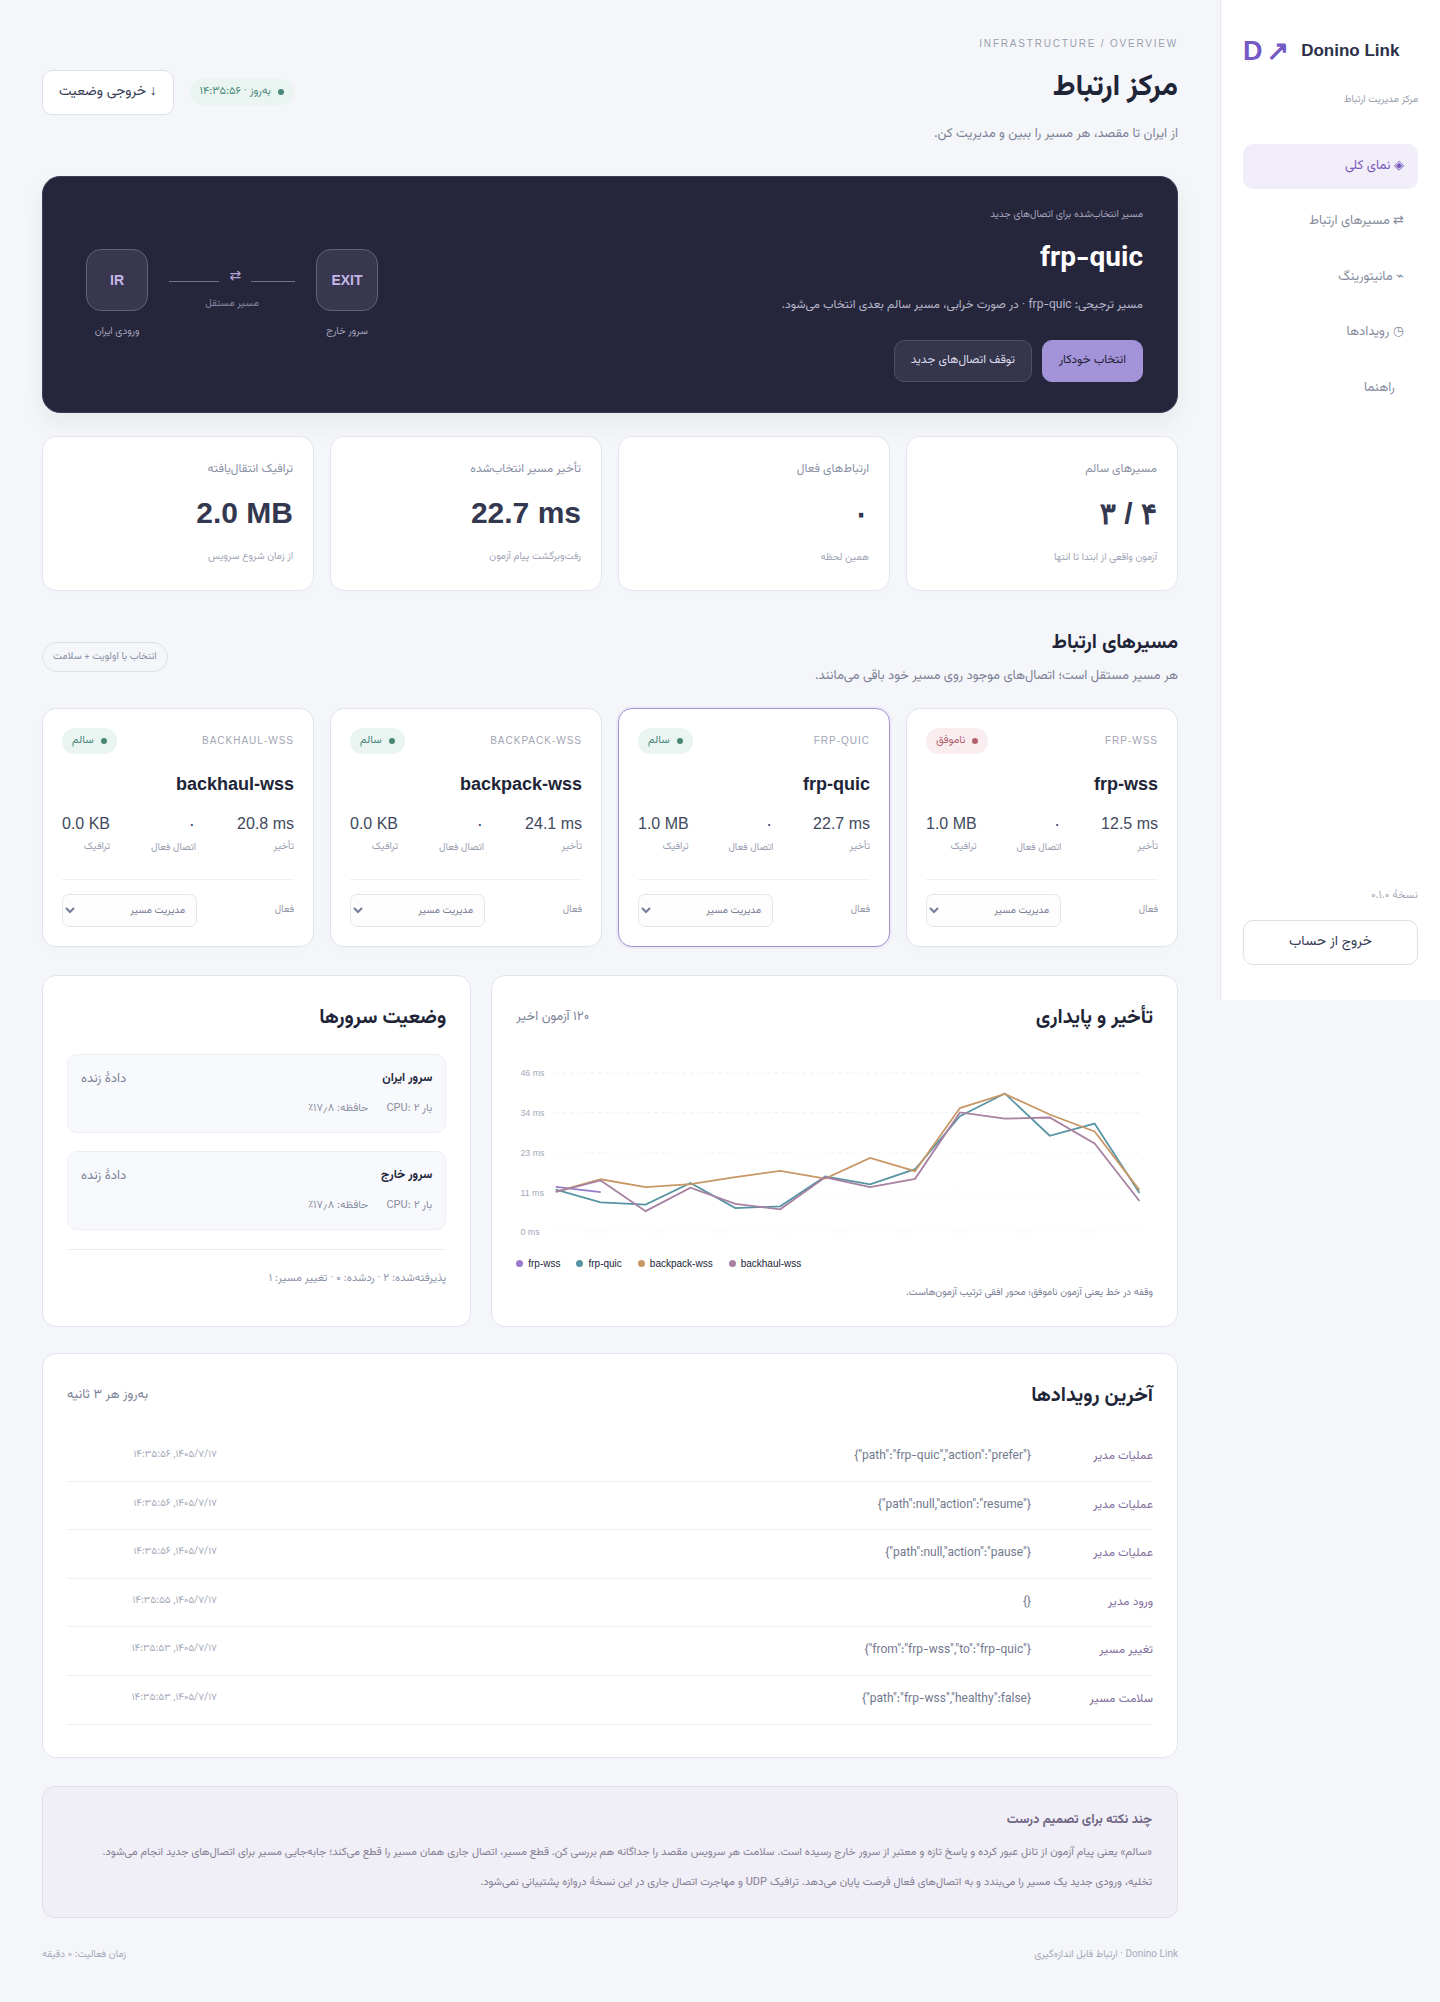
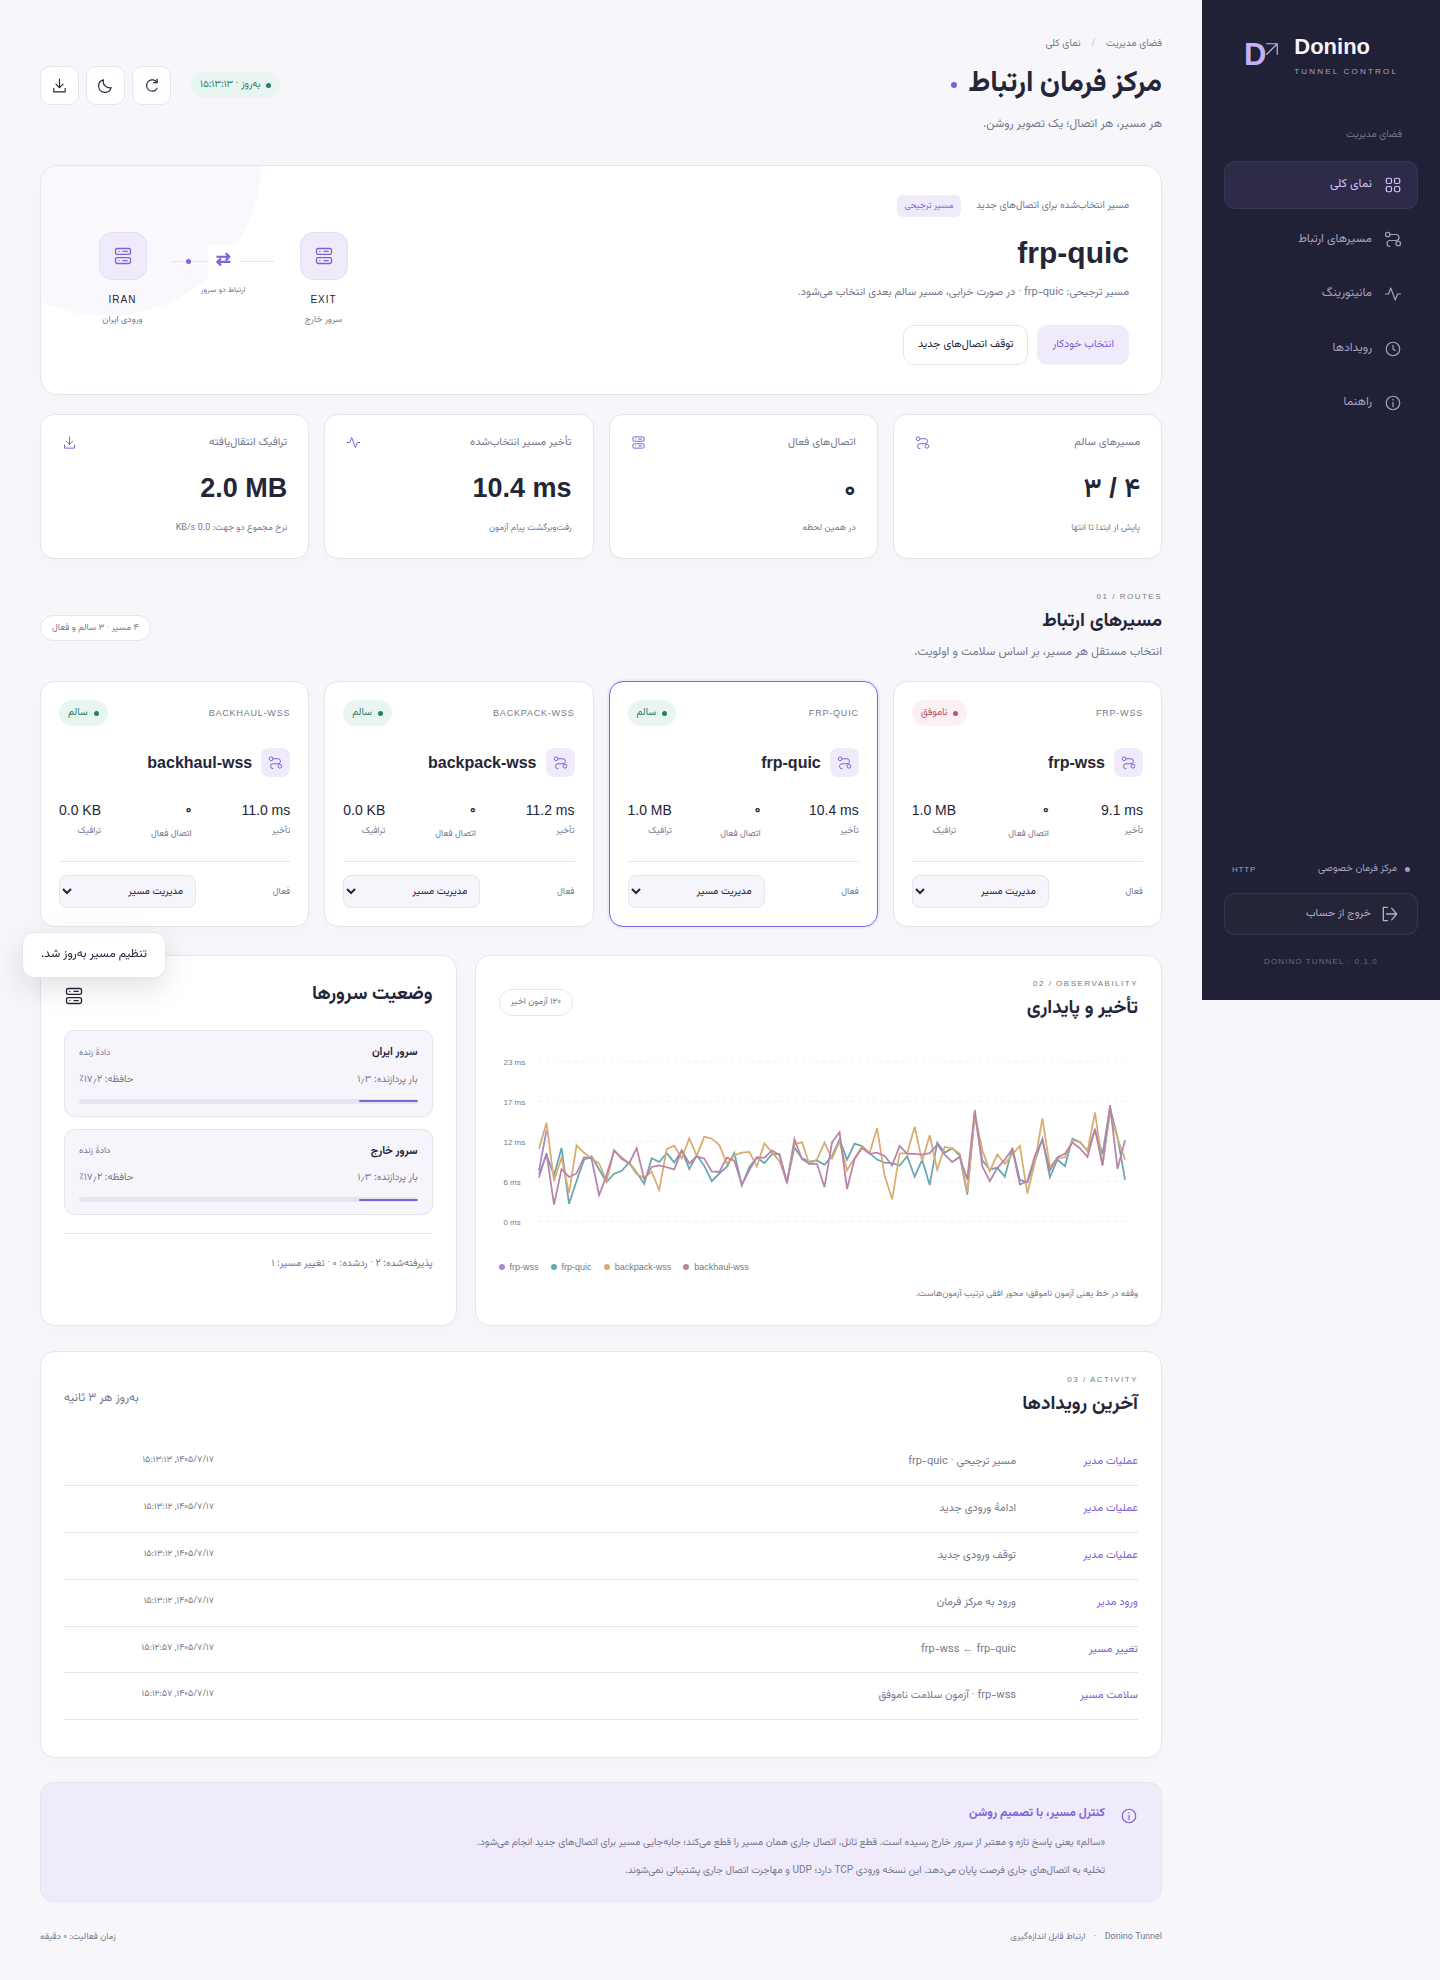
Record verified modern panel screenshots and roll back HTTP activation on failed readiness

diff --git a/docs/validation.md b/docs/validation.md
@@ -4,7 +4,7 @@
 
 ## آزمون واحد و امنیت
 
-۳۲ تست شامل اعتبارسنجی endpoint و تنظیمات، امضای تازهٔ probe، رد listener جعلی، hysteresis، fallback قبل از مصرف داده، حفظ half-close، drain، حالت پایدار مدیر، ورود و CSRF و Origin و خروج، rate limit، عدم افشای راز، metrics، قوانین raw scoped، SSH injection، جداسازی کلیدهای node، تولید و تمدید گواهی/pin، پورت 443 مستقل روی دو node، مرز frame و لایهٔ مشترک انتقال است. ماتریس CI با Python 3.11، 3.12 و 3.13 اجرا میشود.
+۳۶ تست شامل اعتبارسنجی endpoint و تنظیمات، امضای تازهٔ probe، رد listener جعلی، hysteresis، fallback قبل از مصرف داده، حفظ half-close، drain، حالت پایدار مدیر، ورود و CSRF و Origin و خروج، rate limit، عدم افشای راز، metrics، قوانین raw scoped، SSH injection، جداسازی کلیدهای node، تولید و تمدید گواهی/pin، پورت 443 مستقل روی دو node، مرز frame، لایهٔ مشترک انتقال، انتخاب صریح HTTP عمومی، رد برخورد پورت و حفظ دسترسی فایل تنظیمات است. ماتریس CI با Python 3.11، 3.12 و 3.13 اجرا میشود.
 
 ## موتورهای واقعی
 
@@ -22,7 +22,7 @@ Paqet فقط به لحاظ ساخت config، cipher موجود در source و ق
 
 ## پنل واقعی
 
-Playwright روی پنلِ متصل به چهار موتور واقعی تست ورود، توقف/ادامه، prefer و خروج موبایل را انجام میدهد. viewport دسکتاپ 1440×1000 و موبایل 390×844؛ خطای JavaScript و overflow افقی بررسی میشود. تصاویر [دسکتاپ](evidence/panel-desktop.png) و [موبایل](evidence/panel-mobile.png) از fixture محلی روی runner هستند، نه سرورهای واقعی ایران و خارج. تصویر بعد از قطع عمدی مسیر WSS گرفته شد؛ قرمز بودن آن مسیر انتظار آزمون است. تصاویر بازبینی بصری شدند و نسخهٔ اولیهٔ پنل خوانا و بدون overflow بود.
+Playwright روی پنلِ متصل به چهار موتور واقعی تست ورود، توقف/ادامه، prefer، بهروزرسانی دستی، ماندگاری تم روشن/تیره بعد از reload و خروج موبایل را انجام میدهد. viewport دسکتاپ 1440×1000 و موبایل 390×844؛ خطای JavaScript و overflow افقی بررسی میشود. تصاویر [دسکتاپ](evidence/panel-desktop.png) و [موبایل](evidence/panel-mobile.png) از fixture محلی روی runner هستند، نه سرورهای واقعی ایران و خارج. تصویر بعد از قطع عمدی مسیر WSS گرفته شد؛ قرمز بودن آن مسیر انتظار آزمون است. تصاویر بازبینی بصری شدند؛ پنل جدید در هر دو تم و موبایل خوانا و بدون overflow است. [حالت تیره](evidence/panel-dark.png)، [صفحهٔ ورود](evidence/panel-login.png) و [نتیجهٔ آزمون](evidence/panel-ui-tests.json). HTTP عمومی با انتخاب صریح آماده است؛ استقرار واقعی روی VPS هنوز انجام نشده است.
 
 ## پذیرش شبکهٔ واقعی
 

diff --git a/README.md b/README.md
@@ -6,7 +6,7 @@
 
 ## آنچه ساخته شده
 
-- پنل فارسی RTL با نمودار تأخیر، سلامت دو سرور، شمارندهٔ ترافیک، رویدادهای مدیر، انتخاب ترجیحی، تخلیه و توقف اتصالهای جدید.
+- پنل مدرن فارسی RTL، مناسب موبایل، با حالت روشن/تیره و نمودار تأخیر، سلامت دو سرور، شمارندهٔ ترافیک، رویدادهای مدیر، انتخاب ترجیحی، تخلیه و توقف اتصالهای جدید.
 - آزمون سلامت تازه و امضاشده که از خودِ هر تانل عبور میکند؛ سلامت سرویس مقصد نیز جداگانه سنجیده میشود.
 - انتخاب مستقل مسیر و تغییر مسیر اتصالهای جدید هنگام خرابی. اتصال جاریِ قطعشده مهاجرت نمیکند و دادهٔ نامطمئن بازپخش نمیشود.
 - FRP روی WSS با ورودی mTLS و FRP روی QUIC؛ BackPack، Paqet، Backhaul و BrowserLink با انتخاب صریح آزمایشی.
@@ -20,7 +20,7 @@
 
 ![پنل دسکتاپ](docs/evidence/panel-desktop.png)
 
-[نمای موبایل](docs/evidence/panel-mobile.png)
+[نمای موبایل](docs/evidence/panel-mobile.png) · [حالت تیره](docs/evidence/panel-dark.png) · [صفحهٔ ورود](docs/evidence/panel-login.png)
 
 ## نصب
 

diff --git a/docs/online-panel.md b/docs/online-panel.md
@@ -57,4 +57,4 @@ sudo systemctl status donino-link.service
 sudo ss -lntp '( sport = :8090 )'
 ```
 
-باید listener روی `0.0.0.0:8090` وجود داشته باشد. `healthz` فقط زنده بودن سرویس را نشان میدهد، نه سلامت تانل. سلامت مسیرها بعد از ورود قابل مشاهده است. إذا local healthz جواب میدهد ولی مرورگر بیرونی وصل نمیشود، NAT، firewall میزبان یا firewall شرکت میزبان را بررسی کن. راهاندازی عمومی تنها پس از اجرای این تنظیمات روی VPS و آزمون از بیرون، آنلاین محسوب میشود.
+باید listener روی `0.0.0.0:8090` وجود داشته باشد. `healthz` فقط زنده بودن سرویس را نشان میدهد، نه سلامت تانل. سلامت مسیرها بعد از ورود قابل مشاهده است. اگر healthz محلی جواب میدهد ولی مرورگر بیرونی وصل نمیشود، NAT، firewall میزبان یا firewall شرکت میزبان را بررسی کن. راهاندازی عمومی تنها پس از اجرای این تنظیمات روی VPS و آزمون از بیرون، آنلاین محسوب میشود.
